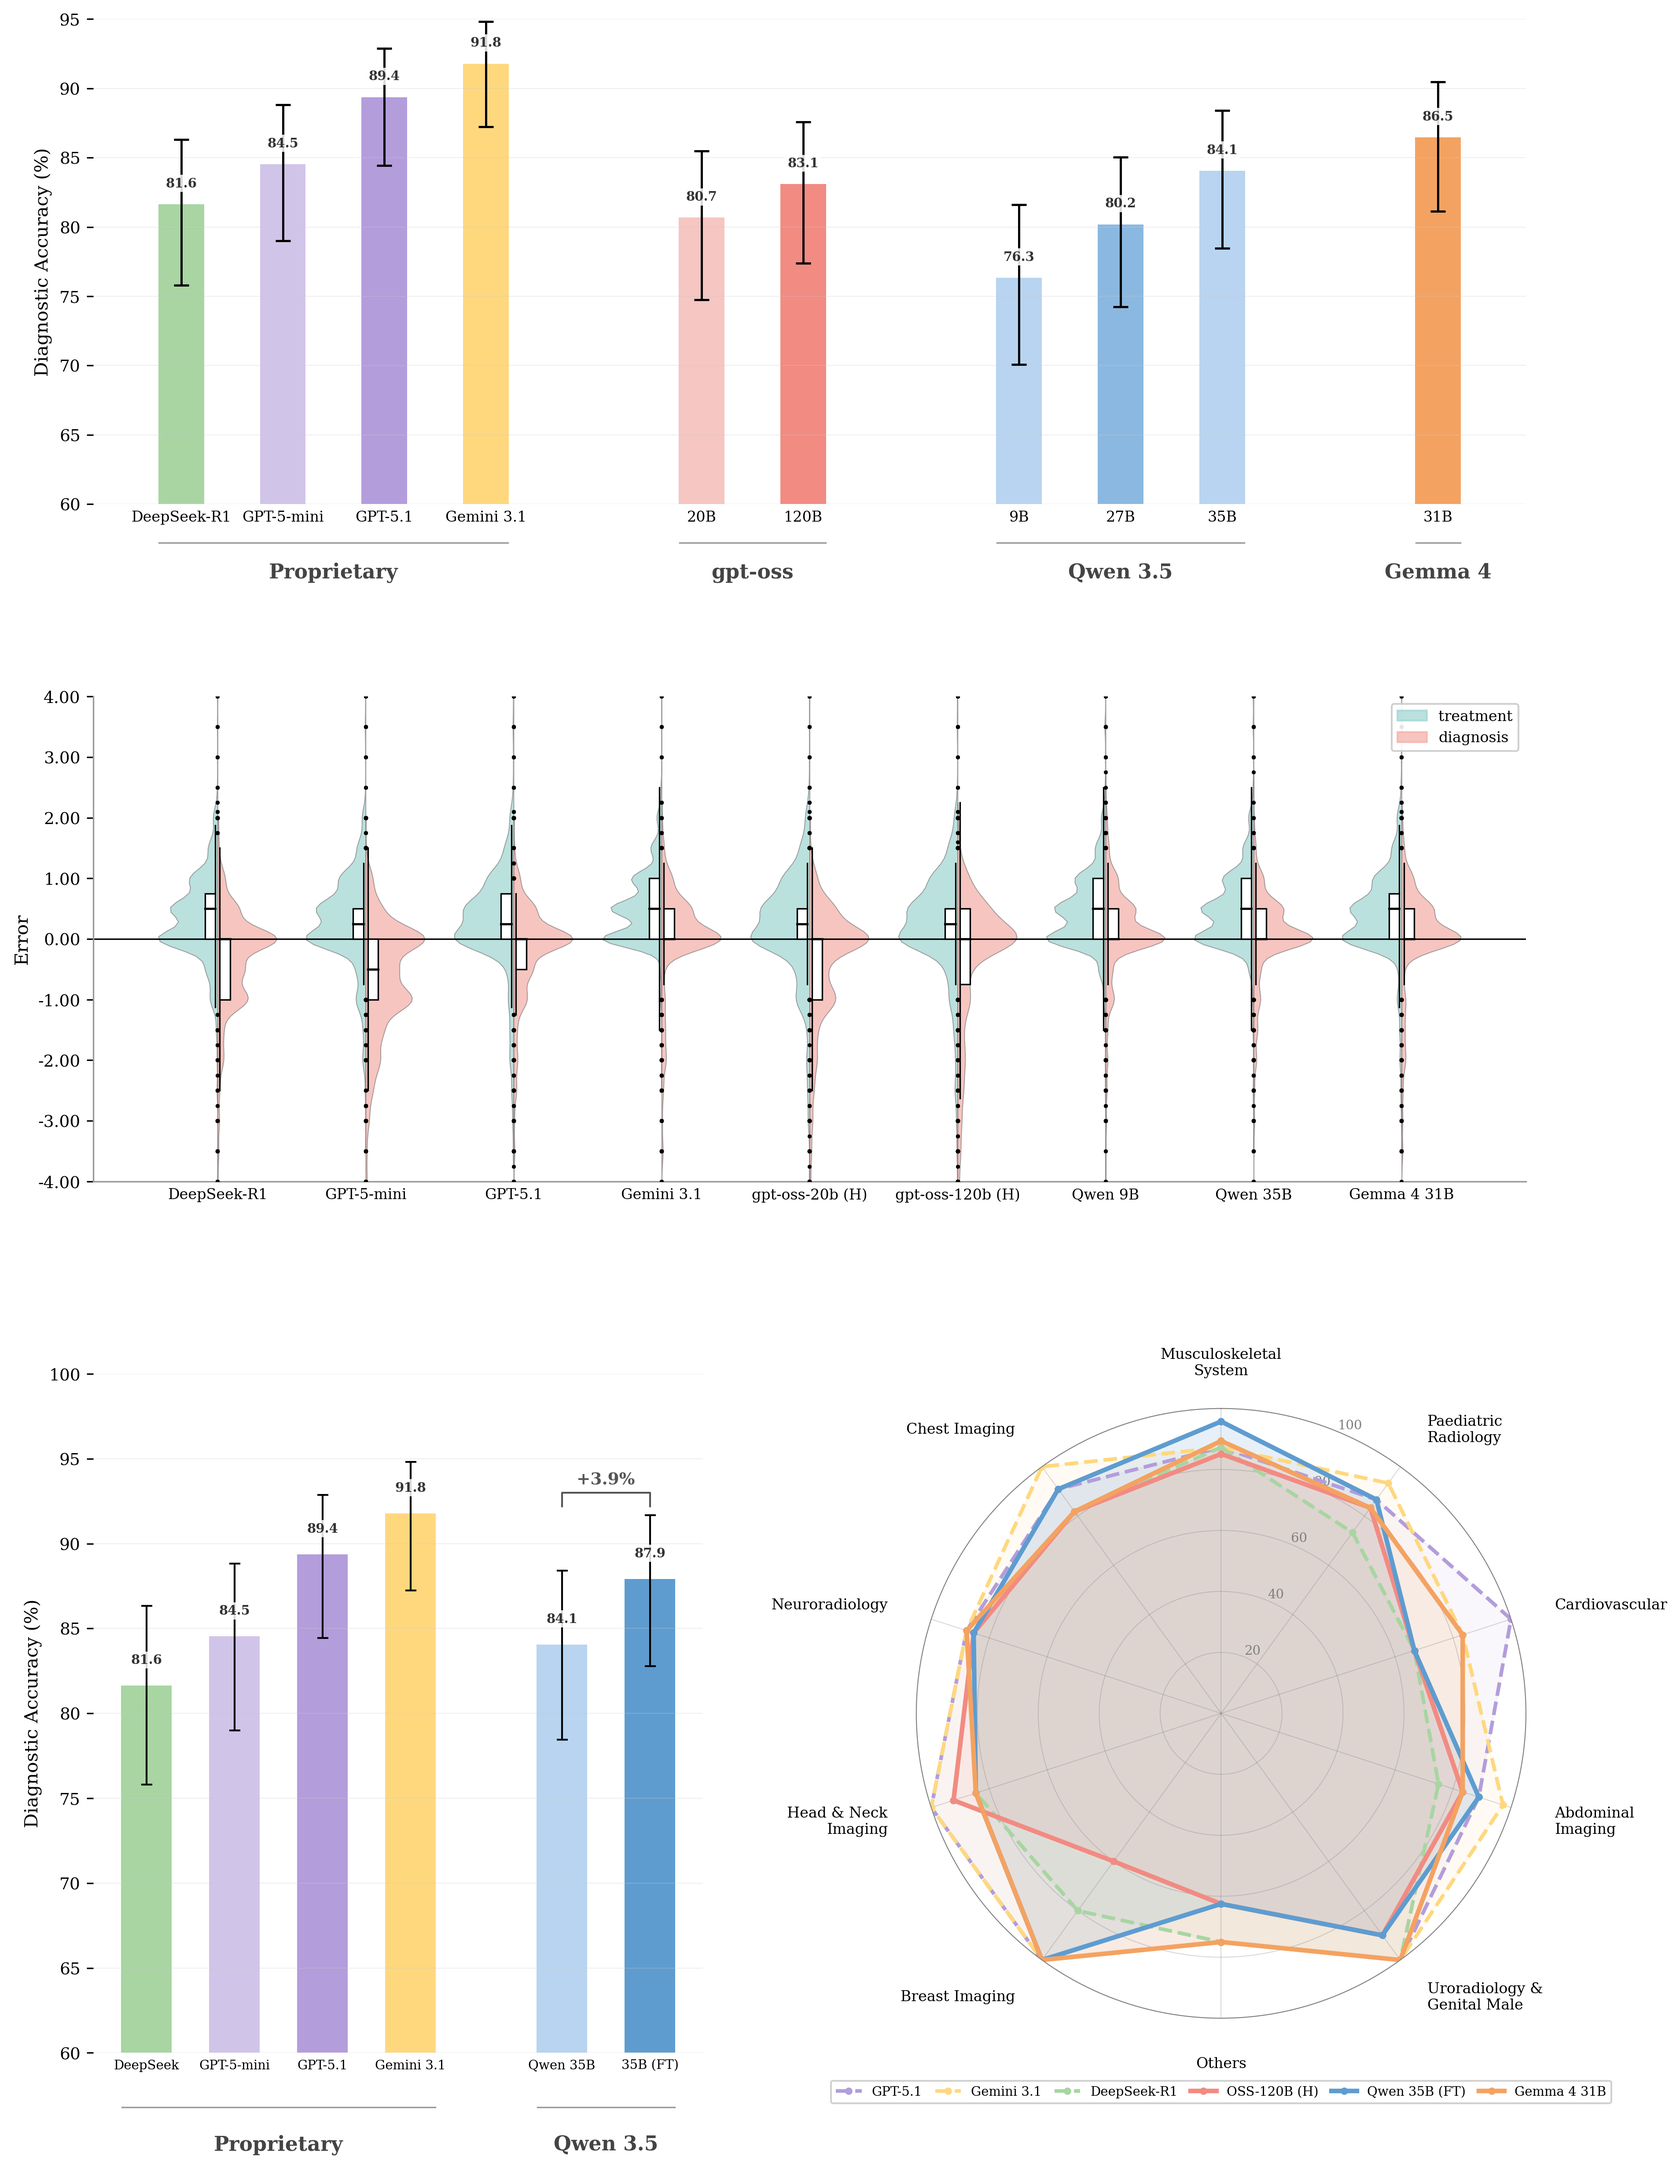
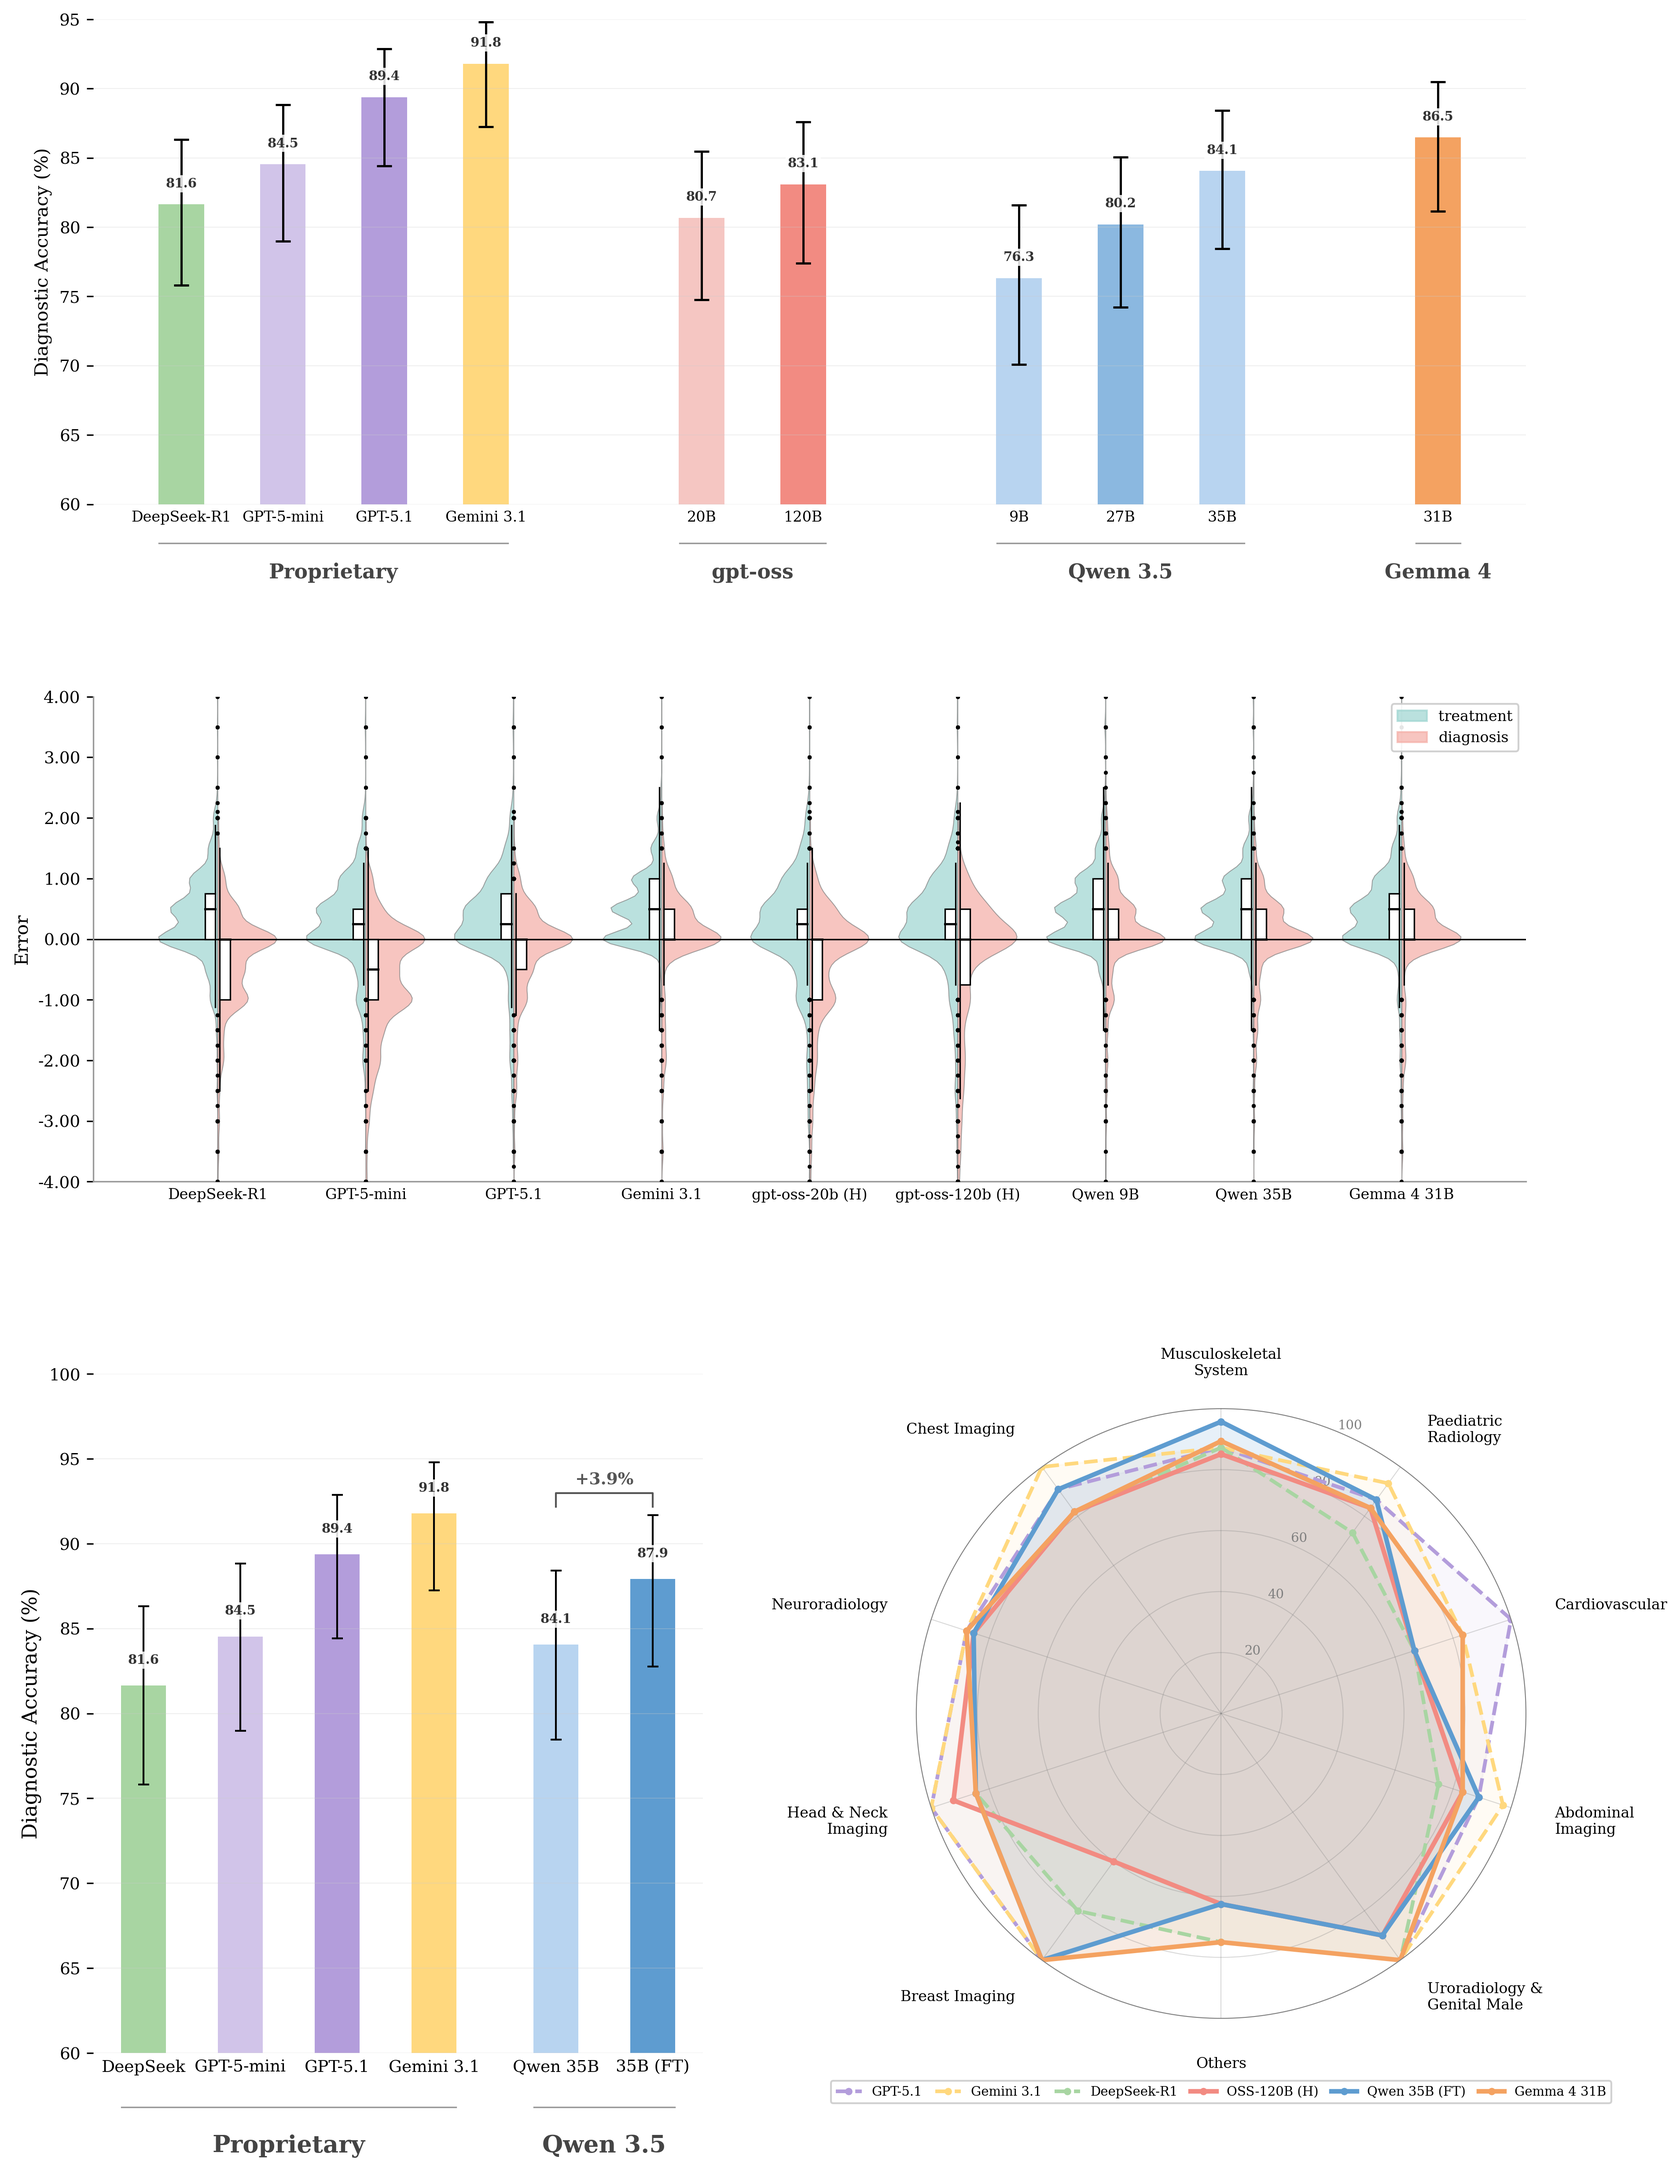
Rebalance Fig 2 panel c spacing and enlarge group labels
Increase bar step from 1.25 to 1.55 for more breathing room, shrink
the between-group gap from 0.9 to 0.4, and bump the "Proprietary" /
"Qwen 3.5" group labels from 8pt to 13pt (bold) with x-tick labels
7pt to 9pt and y-axis label 10pt to 11pt.

diff --git a/figures/combined_figure.py b/figures/combined_figure.py
@@ -228,13 +228,13 @@ def panel_finetune(ax):
 
     positions = []
     x = 0
-    step = 1.25
+    step = 1.55
     gaps_after = {3}
     for idx in range(len(bars)):
         positions.append(x)
         x += step
         if idx in gaps_after:
-            x += 0.9
+            x += 0.4
 
     accs, los, his, colors, labels = [], [], [], [], []
     for label, color in bars:
@@ -271,12 +271,12 @@ def panel_finetune(ax):
                 [line_y, line_y], color="#999999", lw=0.8,
                 transform=trans, clip_on=False)
         ax.text(mid, text_y, group_name, ha="center", va="top",
-                fontsize=11, fontweight="bold", color="#444444",
+                fontsize=13, fontweight="bold", color="#444444",
                 transform=trans)
 
     ax.set_xticks(positions)
-    ax.set_xticklabels(labels, fontsize=7)
-    ax.set_ylabel("Diagnostic Accuracy (%)", fontsize=10)
+    ax.set_xticklabels(labels, fontsize=9)
+    ax.set_ylabel("Diagnostic Accuracy (%)", fontsize=11)
     ax.set_ylim(60, 100)
     ax.yaxis.set_major_locator(mtick.MultipleLocator(5))
     ax.grid(axis="y", alpha=0.3, color="#cccccc", linewidth=0.5)
